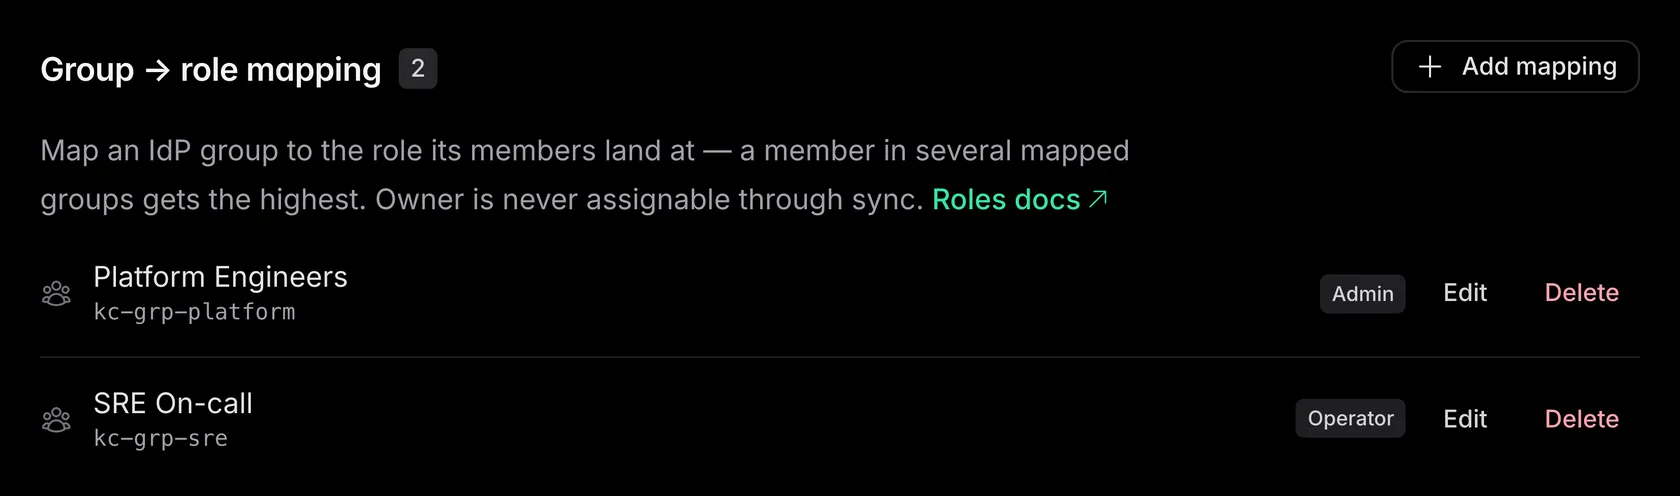
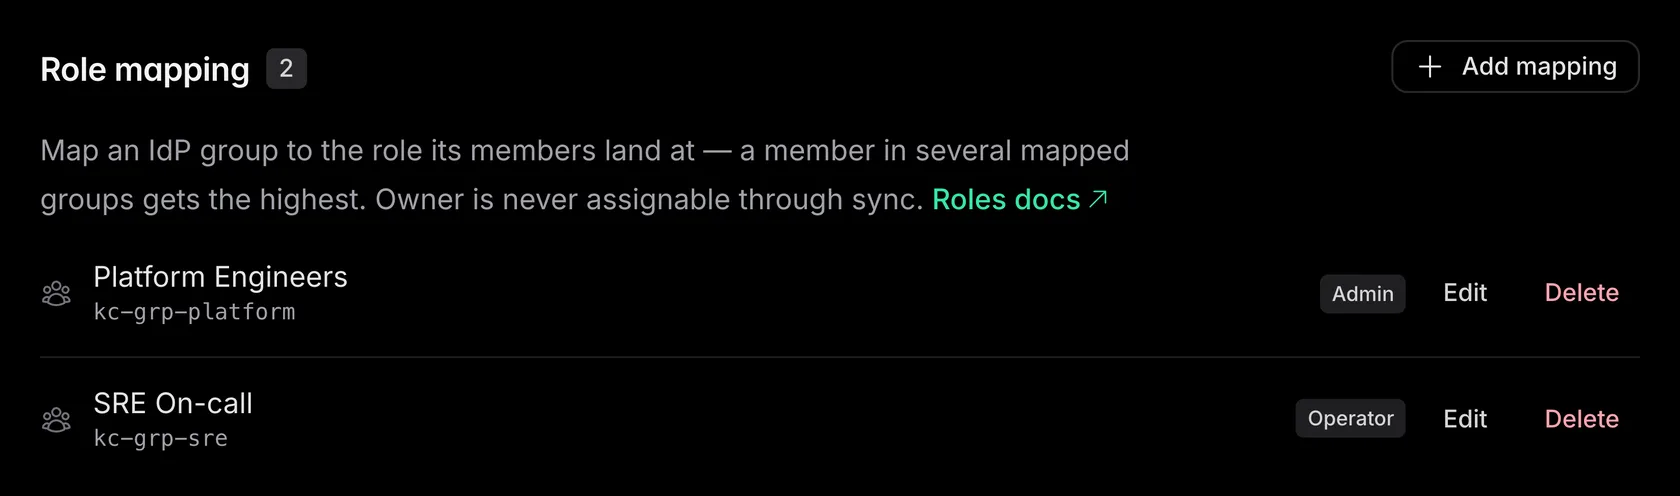
Sweep the remaining arrow-as-label copy, and recapture the stale screenshot
"Group → runner access" is the sibling panel to Role mapping and had the same
problem, so it becomes "Runner access mapping" — the pair now reads as a pair.
The docs-nav description still said "group→role mapping" too; the last sweep
missed it because it had no spaces around the arrow.

Kept every arrow that is doing real work: forward CTAs ("Sign in →"), console
paths ("Runners → Enrollment keys"), version transitions ("v3 → v4"), and code
comments describing the data relationship. The rule is narrower than "no arrows"
— an arrow standing in for a hyphen INSIDE a label is shorthand; an arrow showing
direction or a path is not.

scim-group-role-mapping.webp still showed the old heading, so the capture spec's
anchor was retargeted and the shot retaken. It now reads "Role mapping".

NOT recaptured: scim-synced-users.webp. The fresh capture pulled real identities
out of the dev database — my own Okta account with its live user id, and
JumpCloud's "firstname lastname" activation probe. Its copy is one revision stale;
that is much better than publishing a real directory in a docs image. Fixing it
properly means reseeding the demo connection first.

Verified: ./run gate portal, REAL_EXIT=0, 2713 tests, and I looked at both images.

Coop-Task: 2026-07-28-split-sso-scim-docs-into-per-provider-guides-and

Changed region(s): [[0.031, 0.0907, 0.2786, 0.1815]]

diff --git a/tools/internal/browser/docs.go b/tools/internal/browser/docs.go
@@ -137,7 +137,7 @@ var docsShots = []shot{
 	// two of three IdP groups, deliberately leaving one unmapped).
 	{Name: "google-emisar-connection", Path: "/app/demo/settings/sso/new", Clicks: []string{selectGoogleProvider, showProductionHost}, Anchor: Anchor{Selector: "#provider_form"}, Width: docsWidth, Output: "docs/sso/google-emisar-connection.webp"},
 	{Name: "entra-emisar-connection", Path: "/app/demo/settings/sso/new", Clicks: []string{selectEntraProvider, showProductionHost}, Anchor: Anchor{Selector: "#provider_form"}, Width: docsWidth, Output: "docs/sso/entra-emisar-connection.webp"},
-	{Name: "scim-group-role-mapping", Path: "/app/demo/settings/team", Clicks: []string{clickSSOConnection}, Anchor: Anchor{Heading: "Group → role mapping", Climb: "section"}, Width: docsWidth, Output: "docs/sso/scim-group-role-mapping.webp"},
+	{Name: "scim-group-role-mapping", Path: "/app/demo/settings/team", Clicks: []string{clickSSOConnection}, Anchor: Anchor{Heading: "Role mapping", Climb: "section"}, Width: docsWidth, Output: "docs/sso/scim-group-role-mapping.webp"},
 	{Name: "scim-synced-users", Path: "/app/demo/settings/team", Clicks: []string{clickSSOConnection}, Anchor: Anchor{Heading: "Synced users", Climb: "section"}, Width: docsWidth, Output: "docs/sso/scim-synced-users.webp"},
 }
 
